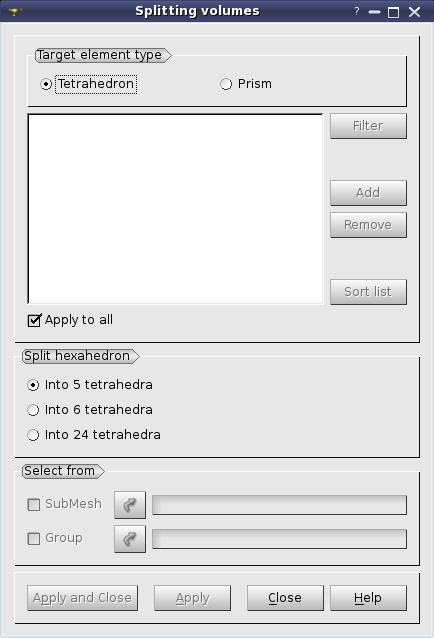
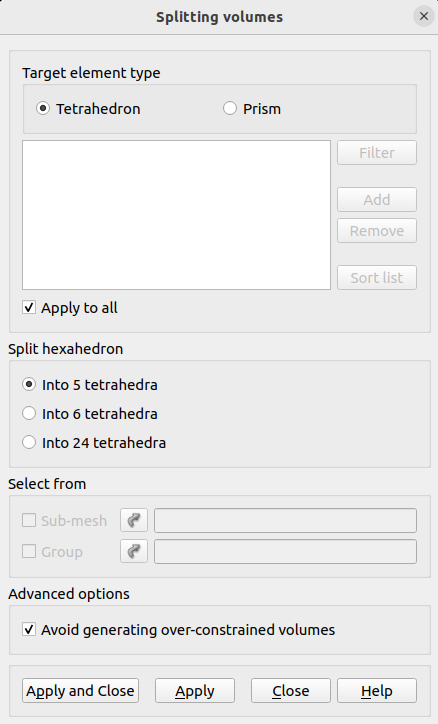
[spns #43858] Add option to avoid generating over-constrained tetras when splitting volumes
Additional fixes

Add function overload with additional argument to maintain backward compatibility

hide/show adavanced options group when change in tetra or prisms

rename gui variables

SMESH Documentation update

Adding test

Minor fixes

Remove compilation warnings

Changed region(s): [[0.0, 0.0, 1.0, 1.0], [0.7488, 0.4467, 0.9585, 0.4765], [0.0, 0.9828, 0.03, 1.0]]

diff --git a/src/SMESHGUI/SMESH_msg_en.ts b/src/SMESHGUI/SMESH_msg_en.ts
@@ -7511,6 +7511,14 @@ It is impossible to read point coordinates from file</translation>
         <source>ALL_DOMAINS</source>
         <translation>All domains</translation>
     </message>
+    <message>
+        <source>ADVANCED_OPTIONS</source>
+        <translation>Advanced options</translation>
+    </message>
+    <message>
+        <source>AVOID_GENERATING_OVER_CONSTRAINED_VOLUMES</source>
+        <translation>Avoid generating over-constrained volumes </translation>
+    </message>
 </context>
 <context>
     <name>SMESHGUI_PrecisionDlg</name>

diff --git a/src/SMESHGUI/SMESH_msg_ja.ts b/src/SMESHGUI/SMESH_msg_ja.ts
@@ -6757,6 +6757,14 @@ pip install meshio[all]</translation>
       <source>ALL_DOMAINS</source>
       <translation>すべてのドメイン</translation>
     </message>
+    <message>
+      <source>ADVANCED_OPTIONS</source>
+      <translation>詳細オプション</translation>
+    </message>
+    <message>
+      <source>AVOID_GENERATING_OVER_CONSTRAINED_VOLUMES</source>
+      <translation>過剰に制約されたボリュームの生成を避ける</translation>
+    </message>
   </context>
   <context>
     <name>SMESHGUI_PrecisionDlg</name>

diff --git a/src/SMESHGUI/SMESH_msg_fr.ts b/src/SMESHGUI/SMESH_msg_fr.ts
@@ -7529,6 +7529,14 @@ Il y a trop peu de points dans le fichier </translation>
         <source>ALL_DOMAINS</source>
         <translation>Tous les domaines</translation>
     </message>
+    <message>
+        <source>ADVANCED_OPTIONS</source>
+        <translation>Options avancées</translation>
+    </message>
+    <message>
+    <source>AVOID_GENERATING_OVER_CONSTRAINED_VOLUMES</source>
+    <translation>Ne pas générer de volumes sur-contraints</translation>
+    </message>
 </context>
 <context>
     <name>SMESHGUI_PrecisionDlg</name>

diff --git a/test/split_overconstrained_box.py b/test/split_overconstrained_box.py
@@ -1,0 +1,164 @@
+#!/usr/bin/env python
+
+import sys
+import salome
+
+salome.salome_init()
+
+###
+### GEOM component
+###
+
+import GEOM
+from salome.geom import geomBuilder
+import math
+import SALOMEDS
+
+
+geompy = geomBuilder.New()
+
+O = geompy.MakeVertex(0, 0, 0)
+OX = geompy.MakeVectorDXDYDZ(1, 0, 0)
+OY = geompy.MakeVectorDXDYDZ(0, 1, 0)
+OZ = geompy.MakeVectorDXDYDZ(0, 0, 1)
+Face_1 = geompy.MakeFaceHW(10, 10, 1)
+Disk_1 = geompy.MakeDiskR(2.5, 1)
+Cut_1 = geompy.MakeCutList(Face_1, [Disk_1])
+geompy.addToStudy( O, 'O' )
+geompy.addToStudy( OX, 'OX' )
+geompy.addToStudy( OY, 'OY' )
+geompy.addToStudy( OZ, 'OZ' )
+geompy.addToStudy( Face_1, 'Face_1' )
+geompy.addToStudy( Disk_1, 'Disk_1' )
+geompy.addToStudy( Cut_1, 'Cut_1' )
+
+###
+### SMESH component
+###
+
+import  SMESH, SALOMEDS
+from salome.smesh import smeshBuilder
+
+smesh = smeshBuilder.New()
+#smesh.SetEnablePublish( False ) # Set to False to avoid publish in study if not needed or in some particular situations:
+                                 # multiples meshes built in parallel, complex and numerous mesh edition (performance)
+
+Mesh_1 = smesh.Mesh(Face_1,'Mesh_1_quadrangle_mapping')
+Regular_1D = Mesh_1.Segment()
+Number_of_Segments_1 = Regular_1D.NumberOfSegments(10)
+Quadrangle_2D = Mesh_1.Quadrangle(algo=smeshBuilder.QUADRANGLE)
+isDone = Mesh_1.Compute()
+Mesh_1.CheckCompute()
+Mesh_1.ExtrusionSweepObjects( [], [ Mesh_1 ], [ Mesh_1 ], [ 0, 0, 1 ], 5, 1, [  ], 0, [  ], [  ], 0 )
+
+def splitAndCheck(mesh):
+  mesh_name = mesh.GetName()
+  # default split without asking for no over_constrained volumes
+  mesh_copy1 = smesh.CopyMesh(mesh, f"{mesh_name}_split_in_5_default")
+  mesh_copy1.SplitVolumesIntoTetra( mesh_copy1, 1, False)
+  checkNoOverConstrainedVolume(mesh_copy1, print_only=True)
+  # split in 5 tetras with no over_constrained volumes
+  mesh_copy2 = smesh.CopyMesh(mesh, f"{mesh_name}_split_in_5_no_over_constrained")
+  mesh_copy2.SplitVolumesIntoTetra( mesh_copy2, 1, True)
+  checkNoOverConstrainedVolume(mesh_copy2)
+  # split in 6 tetras with no over_constrained volumes
+  mesh_copy3 = smesh.CopyMesh(mesh, f"{mesh_name}_split_in_5_no_over_constrained")
+  mesh_copy3.SplitVolumesIntoTetra( mesh_copy3, 1, True)
+  checkNoOverConstrainedVolume(mesh_copy3)
+
+def checkNoOverConstrainedVolume(mesh, print_only=False):
+  Group_1 = mesh.MakeGroup("over_constrained", SMESH.VOLUME, CritType=SMESH.FT_OverConstrainedVolume)
+  nb_over_constrained_volumes = Group_1.Size()
+  print(mesh.GetName(), "Nb of over constrained volumes:", nb_over_constrained_volumes)
+  if print_only:
+    return
+  assert Group_1.Size() == 0
+
+splitAndCheck(Mesh_1)
+
+Mesh_2 = smesh.Mesh(Face_1,'Mesh_2_CADSurf_quadrangles')
+MG_CADSurf = Mesh_2.Triangle(algo=smeshBuilder.MG_CADSurf)
+MG_CADSurf_Parameters_1 = MG_CADSurf.Parameters()
+MG_CADSurf_Parameters_1.SetPhySize( 1.41421 )
+MG_CADSurf_Parameters_1.SetMinSize( 0.0141421 )
+MG_CADSurf_Parameters_1.SetMaxSize( 2.82843 )
+MG_CADSurf_Parameters_1.SetElementType( 2 )
+MG_CADSurf_Parameters_1.SetChordalError( 0.707107 )
+isDone = Mesh_2.Compute()
+Mesh_2.CheckCompute()
+Mesh_2.ExtrusionSweepObjects( [], [ Mesh_2 ], [ Mesh_2 ], [ 0, 0, 1 ], 5, 1, [  ], 0, [  ], [  ], 0 )
+splitAndCheck(Mesh_2)
+
+Mesh_3 = smesh.Mesh(Face_1,'Mesh_3_netgen_quad_dominated')
+NETGEN_1D_2D = Mesh_3.Triangle(algo=smeshBuilder.NETGEN_1D2D)
+NETGEN_2D_Parameters_1 = NETGEN_1D_2D.Parameters()
+NETGEN_2D_Parameters_1.SetMaxSize( 1.41421 )
+NETGEN_2D_Parameters_1.SetMinSize( 0.0141421 )
+NETGEN_2D_Parameters_1.SetSecondOrder( 0 )
+NETGEN_2D_Parameters_1.SetOptimize( 1 )
+NETGEN_2D_Parameters_1.SetFineness( 2 )
+NETGEN_2D_Parameters_1.SetChordalError( -1 )
+NETGEN_2D_Parameters_1.SetChordalErrorEnabled( 0 )
+NETGEN_2D_Parameters_1.SetUseSurfaceCurvature( 1 )
+NETGEN_2D_Parameters_1.SetFuseEdges( 1 )
+NETGEN_2D_Parameters_1.SetQuadAllowed( 1 )
+NETGEN_2D_Parameters_1.SetWorstElemMeasure( 32687 )
+NETGEN_2D_Parameters_1.SetUseDelauney( 0 )
+NETGEN_2D_Parameters_1.SetCheckChartBoundary( 192 )
+isDone = Mesh_3.Compute()
+Mesh_3.CheckCompute()
+Mesh_3.ExtrusionSweepObjects( [], [ Mesh_3 ], [ Mesh_3 ], [ 0, 0, 1 ], 5, 1, [  ], 0, [  ], [  ], 0 )
+splitAndCheck(Mesh_3)
+
+Mesh_4 = smesh.Mesh(Cut_1,'Mesh_4_trou_CADSurf_quadrangles')
+MG_CADSurf_1 = Mesh_4.Triangle(algo=smeshBuilder.MG_CADSurf)
+MG_CADSurf_Parameters_2 = MG_CADSurf_1.Parameters()
+MG_CADSurf_Parameters_2.SetPhySize( 1.41421 )
+MG_CADSurf_Parameters_2.SetMinSize( 0.0141421 )
+MG_CADSurf_Parameters_2.SetMaxSize( 2.82843 )
+MG_CADSurf_Parameters_2.SetElementType( 2 )
+MG_CADSurf_Parameters_2.SetChordalError( 0.707107 )
+isDone = Mesh_4.Compute()
+Mesh_4.CheckCompute()
+Mesh_4.ExtrusionSweepObjects( [], [ Mesh_4 ], [ Mesh_4 ], [ 0, 0, 1 ], 5, 1, [  ], 0, [  ], [  ], 0 )
+splitAndCheck(Mesh_4)
+
+Mesh_5 = smesh.Mesh(Cut_1,'Mesh_5_trou_CADSurf_quad_dominent')
+MG_CADSurf_2 = Mesh_5.Triangle(algo=smeshBuilder.MG_CADSurf)
+MG_CADSurf_Parameters_3 = MG_CADSurf_2.Parameters()
+MG_CADSurf_Parameters_3.SetPhySize( 1.41421 )
+MG_CADSurf_Parameters_3.SetMinSize( 0.0141421 )
+MG_CADSurf_Parameters_3.SetMaxSize( 2.82843 )
+MG_CADSurf_Parameters_3.SetElementType( 1 )
+MG_CADSurf_Parameters_3.SetChordalError( 0.707107 )
+isDone = Mesh_5.Compute()
+Mesh_5.CheckCompute()
+Mesh_5.ExtrusionSweepObjects( [], [ Mesh_5 ], [ Mesh_5 ], [ 0, 0, 1 ], 5, 1, [  ], 0, [  ], [  ], 0 )
+splitAndCheck(Mesh_5)
+
+Mesh_6 = smesh.Mesh(Cut_1,'Mesh_6_trou_netgen_quad_dominent')
+NETGEN_1D_2D_1 = Mesh_6.Triangle(algo=smeshBuilder.NETGEN_1D2D)
+isDone = Mesh_6.Compute()
+Mesh_6.CheckCompute()
+NETGEN_2D_Parameters_2 = NETGEN_1D_2D_1.Parameters()
+NETGEN_2D_Parameters_2.SetMaxSize( 0.5 )
+NETGEN_2D_Parameters_2.SetMinSize( 0.25 )
+NETGEN_2D_Parameters_2.SetSecondOrder( 0 )
+NETGEN_2D_Parameters_2.SetOptimize( 1 )
+NETGEN_2D_Parameters_2.SetFineness( 2 )
+NETGEN_2D_Parameters_2.SetChordalError( -1 )
+NETGEN_2D_Parameters_2.SetChordalErrorEnabled( 0 )
+NETGEN_2D_Parameters_2.SetUseSurfaceCurvature( 1 )
+NETGEN_2D_Parameters_2.SetFuseEdges( 1 )
+NETGEN_2D_Parameters_2.SetQuadAllowed( 1 )
+NETGEN_2D_Parameters_2.SetWorstElemMeasure( 32687 )
+NETGEN_2D_Parameters_2.SetUseDelauney( 0 )
+NETGEN_2D_Parameters_2.SetCheckChartBoundary( 192 )
+isDone = Mesh_6.Compute()
+Mesh_6.CheckCompute()
+Mesh_6.ExtrusionSweepObjects( [], [ Mesh_6 ], [ Mesh_6 ], [ 0, 0, 1 ], 5, 1, [  ], 0, [  ], [  ], 0 )
+splitAndCheck(Mesh_6)
+
+
+if salome.sg.hasDesktop():
+  salome.sg.updateObjBrowser()

diff --git a/src/SMESH_SWIG/smeshBuilder.py b/src/SMESH_SWIG/smeshBuilder.py
@@ -5086,7 +5086,7 @@ class Mesh(metaclass = MeshMeta):
         """
         return self.editor.BestSplit(IDOfQuad, self.smeshpyD.GetFunctor(theCriterion))
 
-    def SplitVolumesIntoTetra(self, elems, method=smeshBuilder.Hex_5Tet ):
+    def SplitVolumesIntoTetra(self, elems, method=smeshBuilder.Hex_5Tet, avoidOverConstrainedVolumes=False ):
         """
         Split volumic elements into tetrahedrons
 
@@ -5095,6 +5095,7 @@ class Mesh(metaclass = MeshMeta):
                 method:  flags passing splitting method:
                         smesh.Hex_5Tet, smesh.Hex_6Tet, smesh.Hex_24Tet.
                         smesh.Hex_5Tet - to split the hexahedron into 5 tetrahedrons, etc.
+                avoidOverConstrainedVolume: if True, choose variants that comply with no over-constrained volumes
 
         Note:
                 This operation can create gaps in numeration of elements.
@@ -5106,7 +5107,10 @@ class Mesh(metaclass = MeshMeta):
         if ( isinstance( elems, list )):
             elems = self.editor.MakeIDSource(elems, SMESH.VOLUME)
             unRegister.set( elems )
-        self.editor.SplitVolumesIntoTetra(elems, method)
+        if avoidOverConstrainedVolumes:
+            self.editor.SplitVolumesIntoTetraAvoidOverConstrainedVolumes(elems, method)
+        else:
+            self.editor.SplitVolumesIntoTetra(elems, method)
         return
 
     def SplitBiQuadraticIntoLinear(self, elems=None):

diff --git a/src/SMESHGUI/SMESHGUI_MultiEditDlg.h b/src/SMESHGUI/SMESHGUI_MultiEditDlg.h
@@ -168,6 +168,8 @@ protected:
   int                       myEntityType;
 
   QString                   myHelpFileName;
+  QGroupBox*                myAdvancedGrp;
+  QCheckBox*                myAvoidOverConstrainedChk;
 };
 
 /*!

diff --git a/doc/gui/input/split_to_tetra.rst b/doc/gui/input/split_to_tetra.rst
@@ -46,7 +46,7 @@ tetrahedra or hexahedra into prisms. 2D mesh is modified accordingly.
 		* If **All domains** option is off, the operation stops when all hehexedra adjacent to the start hexahedron are split into prisms. Else the operation tries to continue splitting starting from  another hexahedron closest to the **Hexa location**. 
 
    * **Select from** set of fields allows choosing a sub-mesh or an existing group whose elements will be added to the list as you click **Add** button.
-
+   * The **Advanced options** group appears only when **Tetrahedron** element type is selected. If **Avoid generating over-constrained volumes** is checked, the splitting algorithm generates tetrahedra which are not over-constrained. When all the nodes of a tetrahedron are lying on faces elements, it can lead to errors in solver computation if these faces have boundary conditions (with Finite Element Method ot Volume Element Method). Tick this option to avoid such elements.
 
 #. Click **Apply** or **Apply and Close** button to confirm the operation.
 
